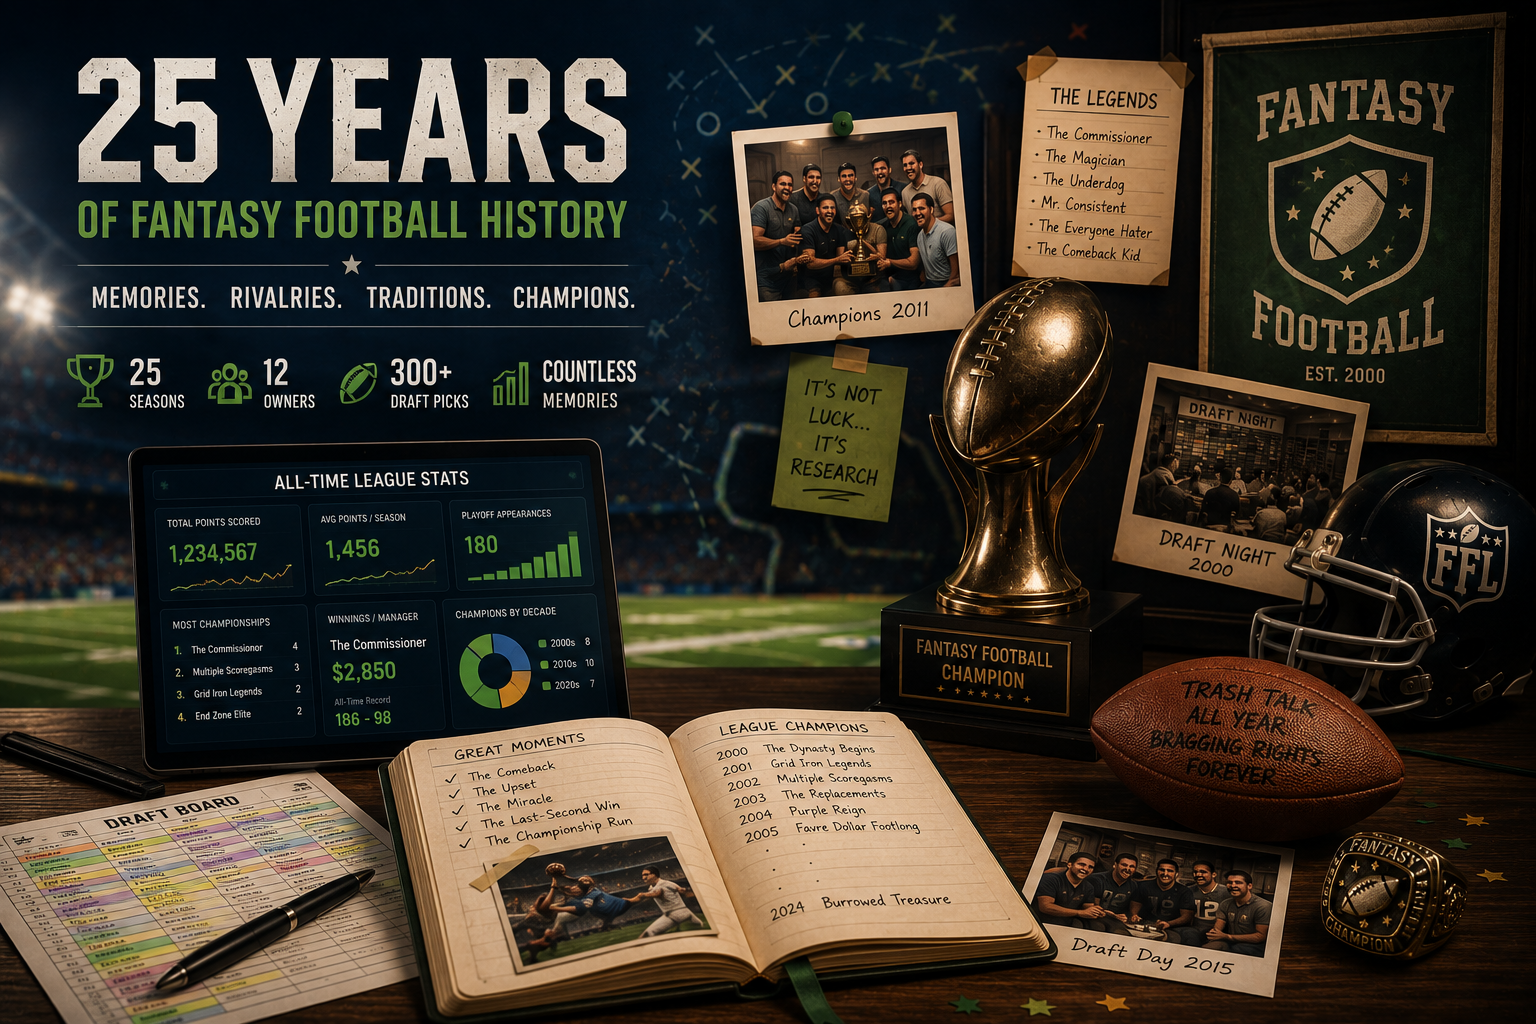
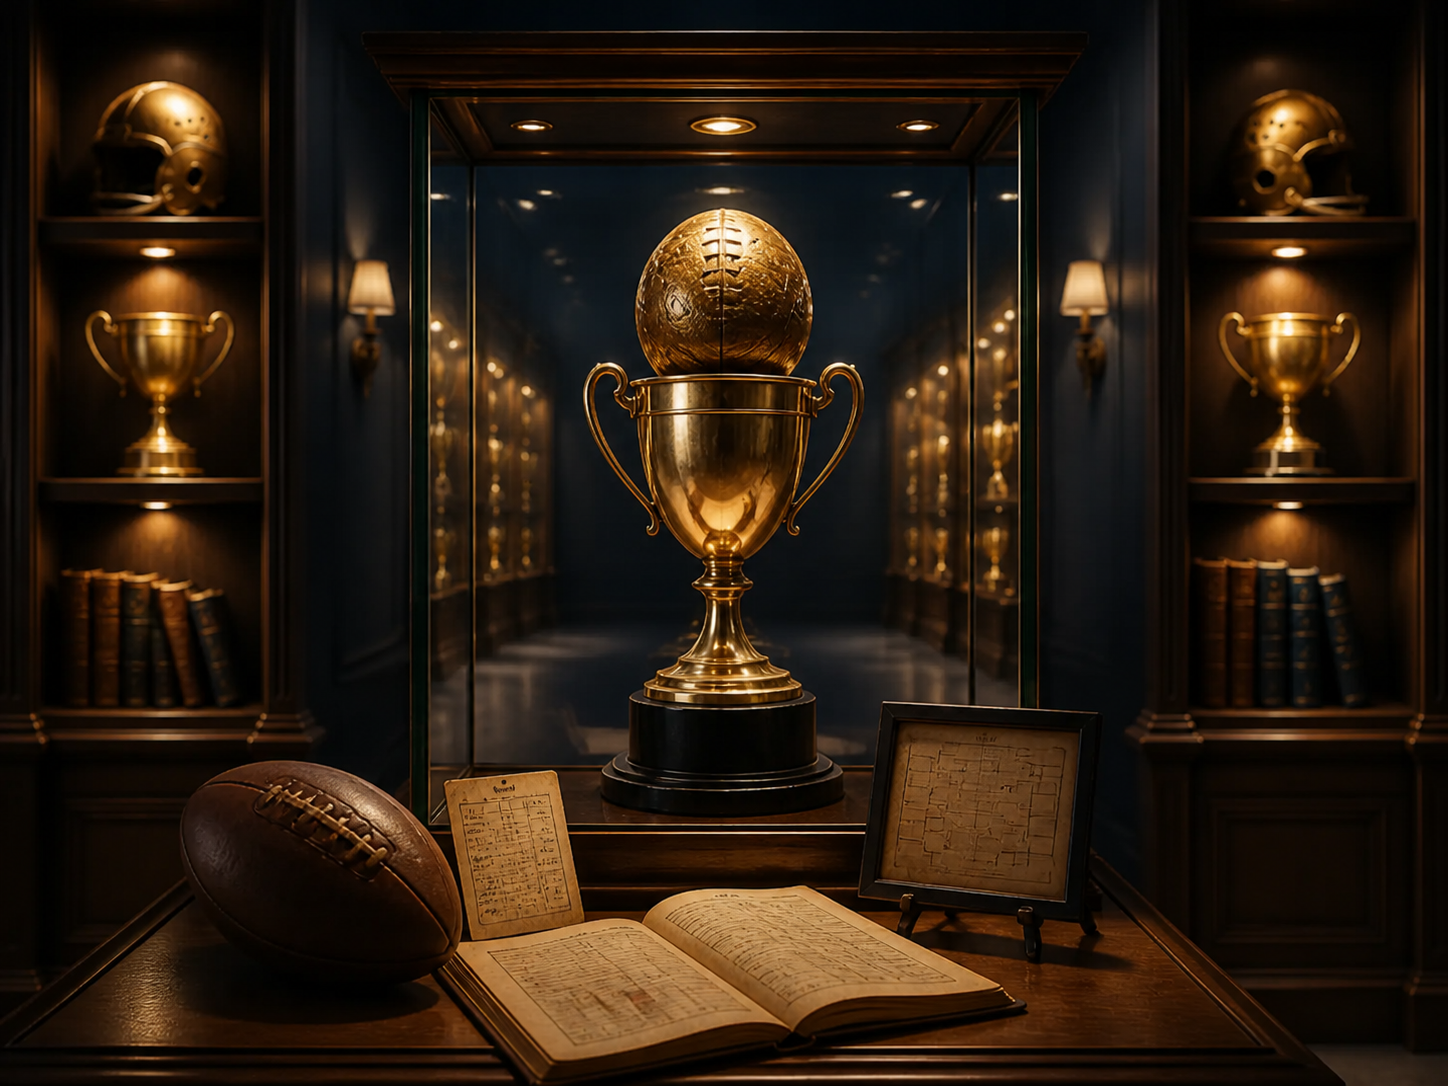
Update FFL museum artwork

diff --git a/streamlit_app.py b/streamlit_app.py
@@ -54,7 +54,7 @@ PROJECTS = [
         "url":         FANTASY_APP_URL,
         "thumbnail":   "assets/25_FFL_2.webp",
         "icon":        "🏈",
-        "obj_pos":     "left center",
+        "obj_pos":     "center center",
         "fallback_gradient": "linear-gradient(160deg, #1a0800 0%, #3d1500 45%, #1a0800 100%)",
     },
     {
